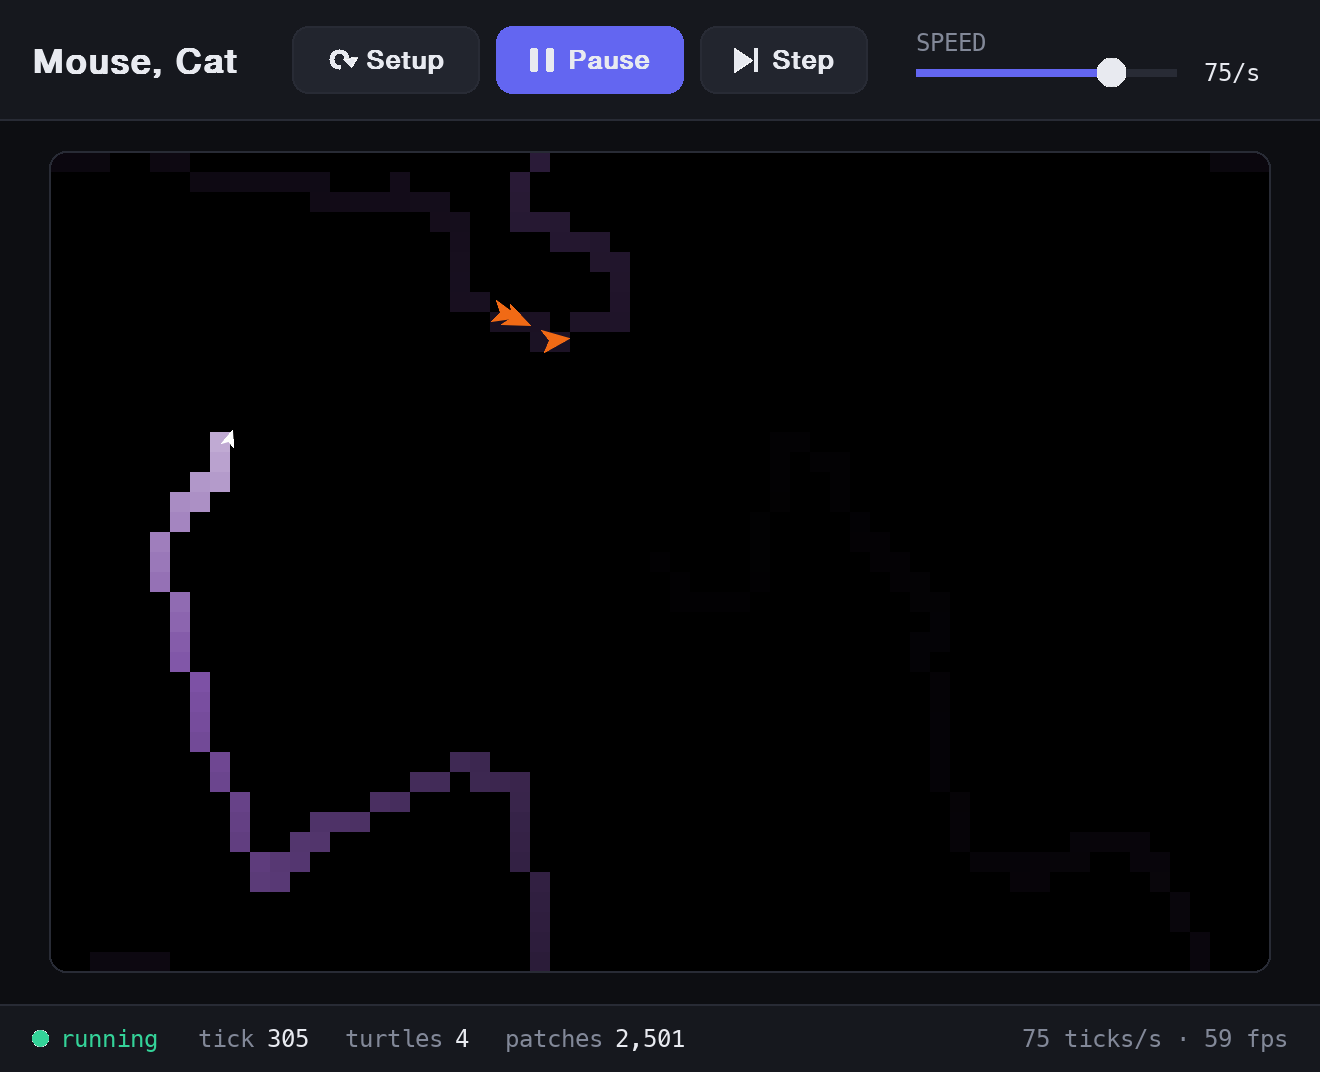
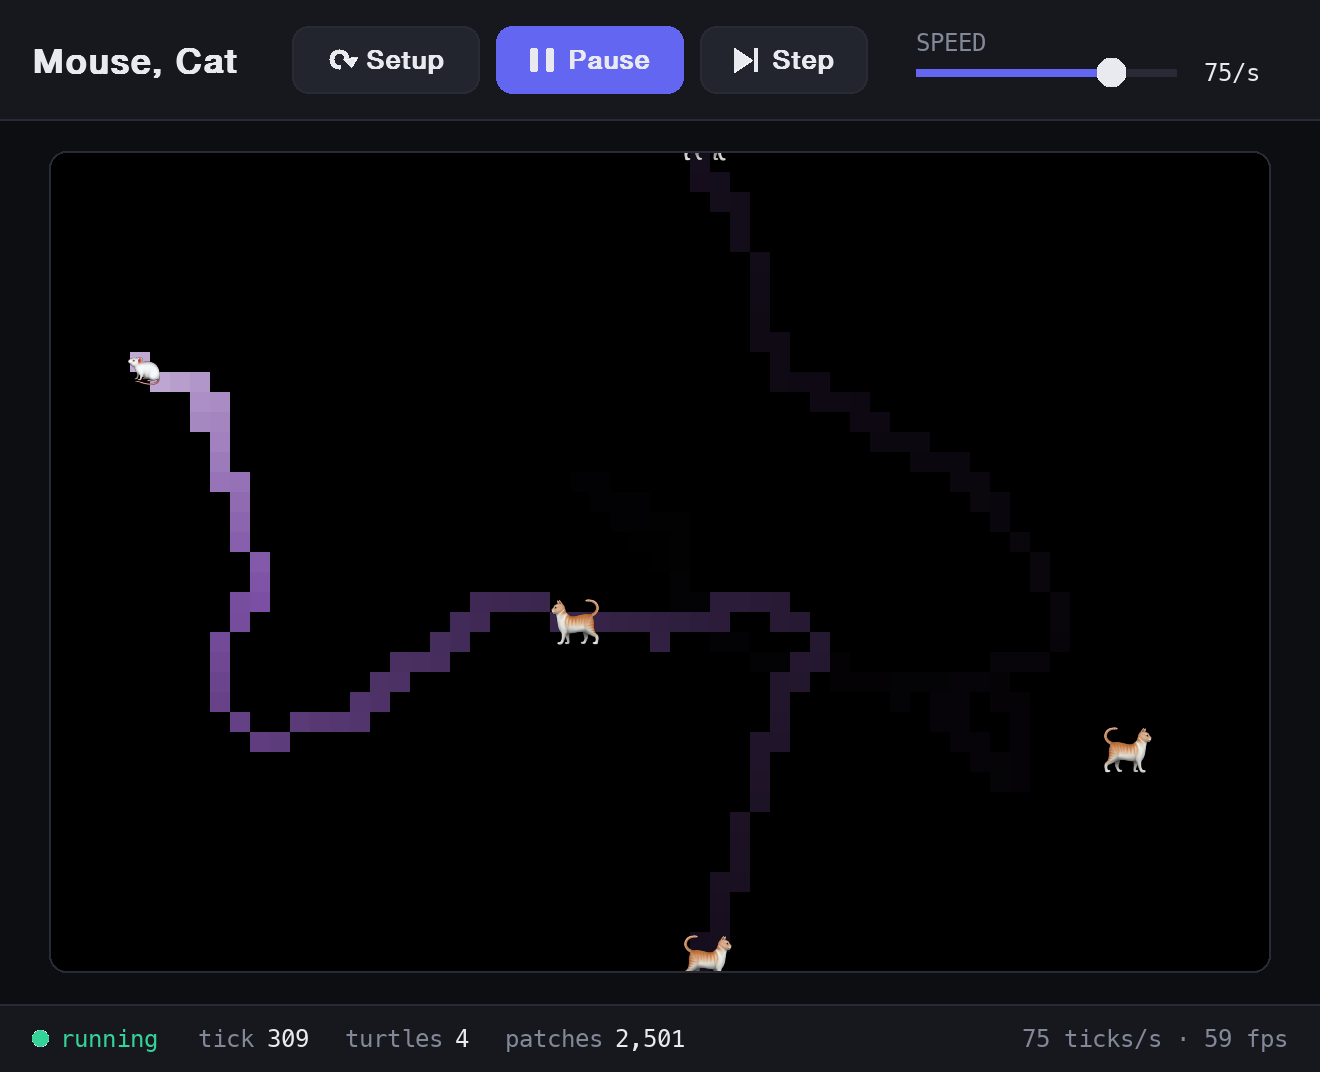
Use cat and mouse emoji in the cat and mouse example

diff --git a/examples/cat_and_mouse.py b/examples/cat_and_mouse.py
@@ -25,9 +25,10 @@ class Ground(Patch):
 
 
 class Mouse(Turtle):
+    shape = "🐁"
+
     def setup(self):
-        self.color = "white"
-        self.size = 0.8
+        self.size = 1.6
 
     def step(self):
         cats = [t for t in self.model.turtles if isinstance(t, Cat)]
@@ -42,9 +43,10 @@ class Mouse(Turtle):
 
 
 class Cat(Turtle):
+    shape = "🐈"
+
     def setup(self):
-        self.color = "orange"
-        self.size = 1.4
+        self.size = 2.4
         self.move_to(random.choice(self.model.patches))
 
     def step(self):
